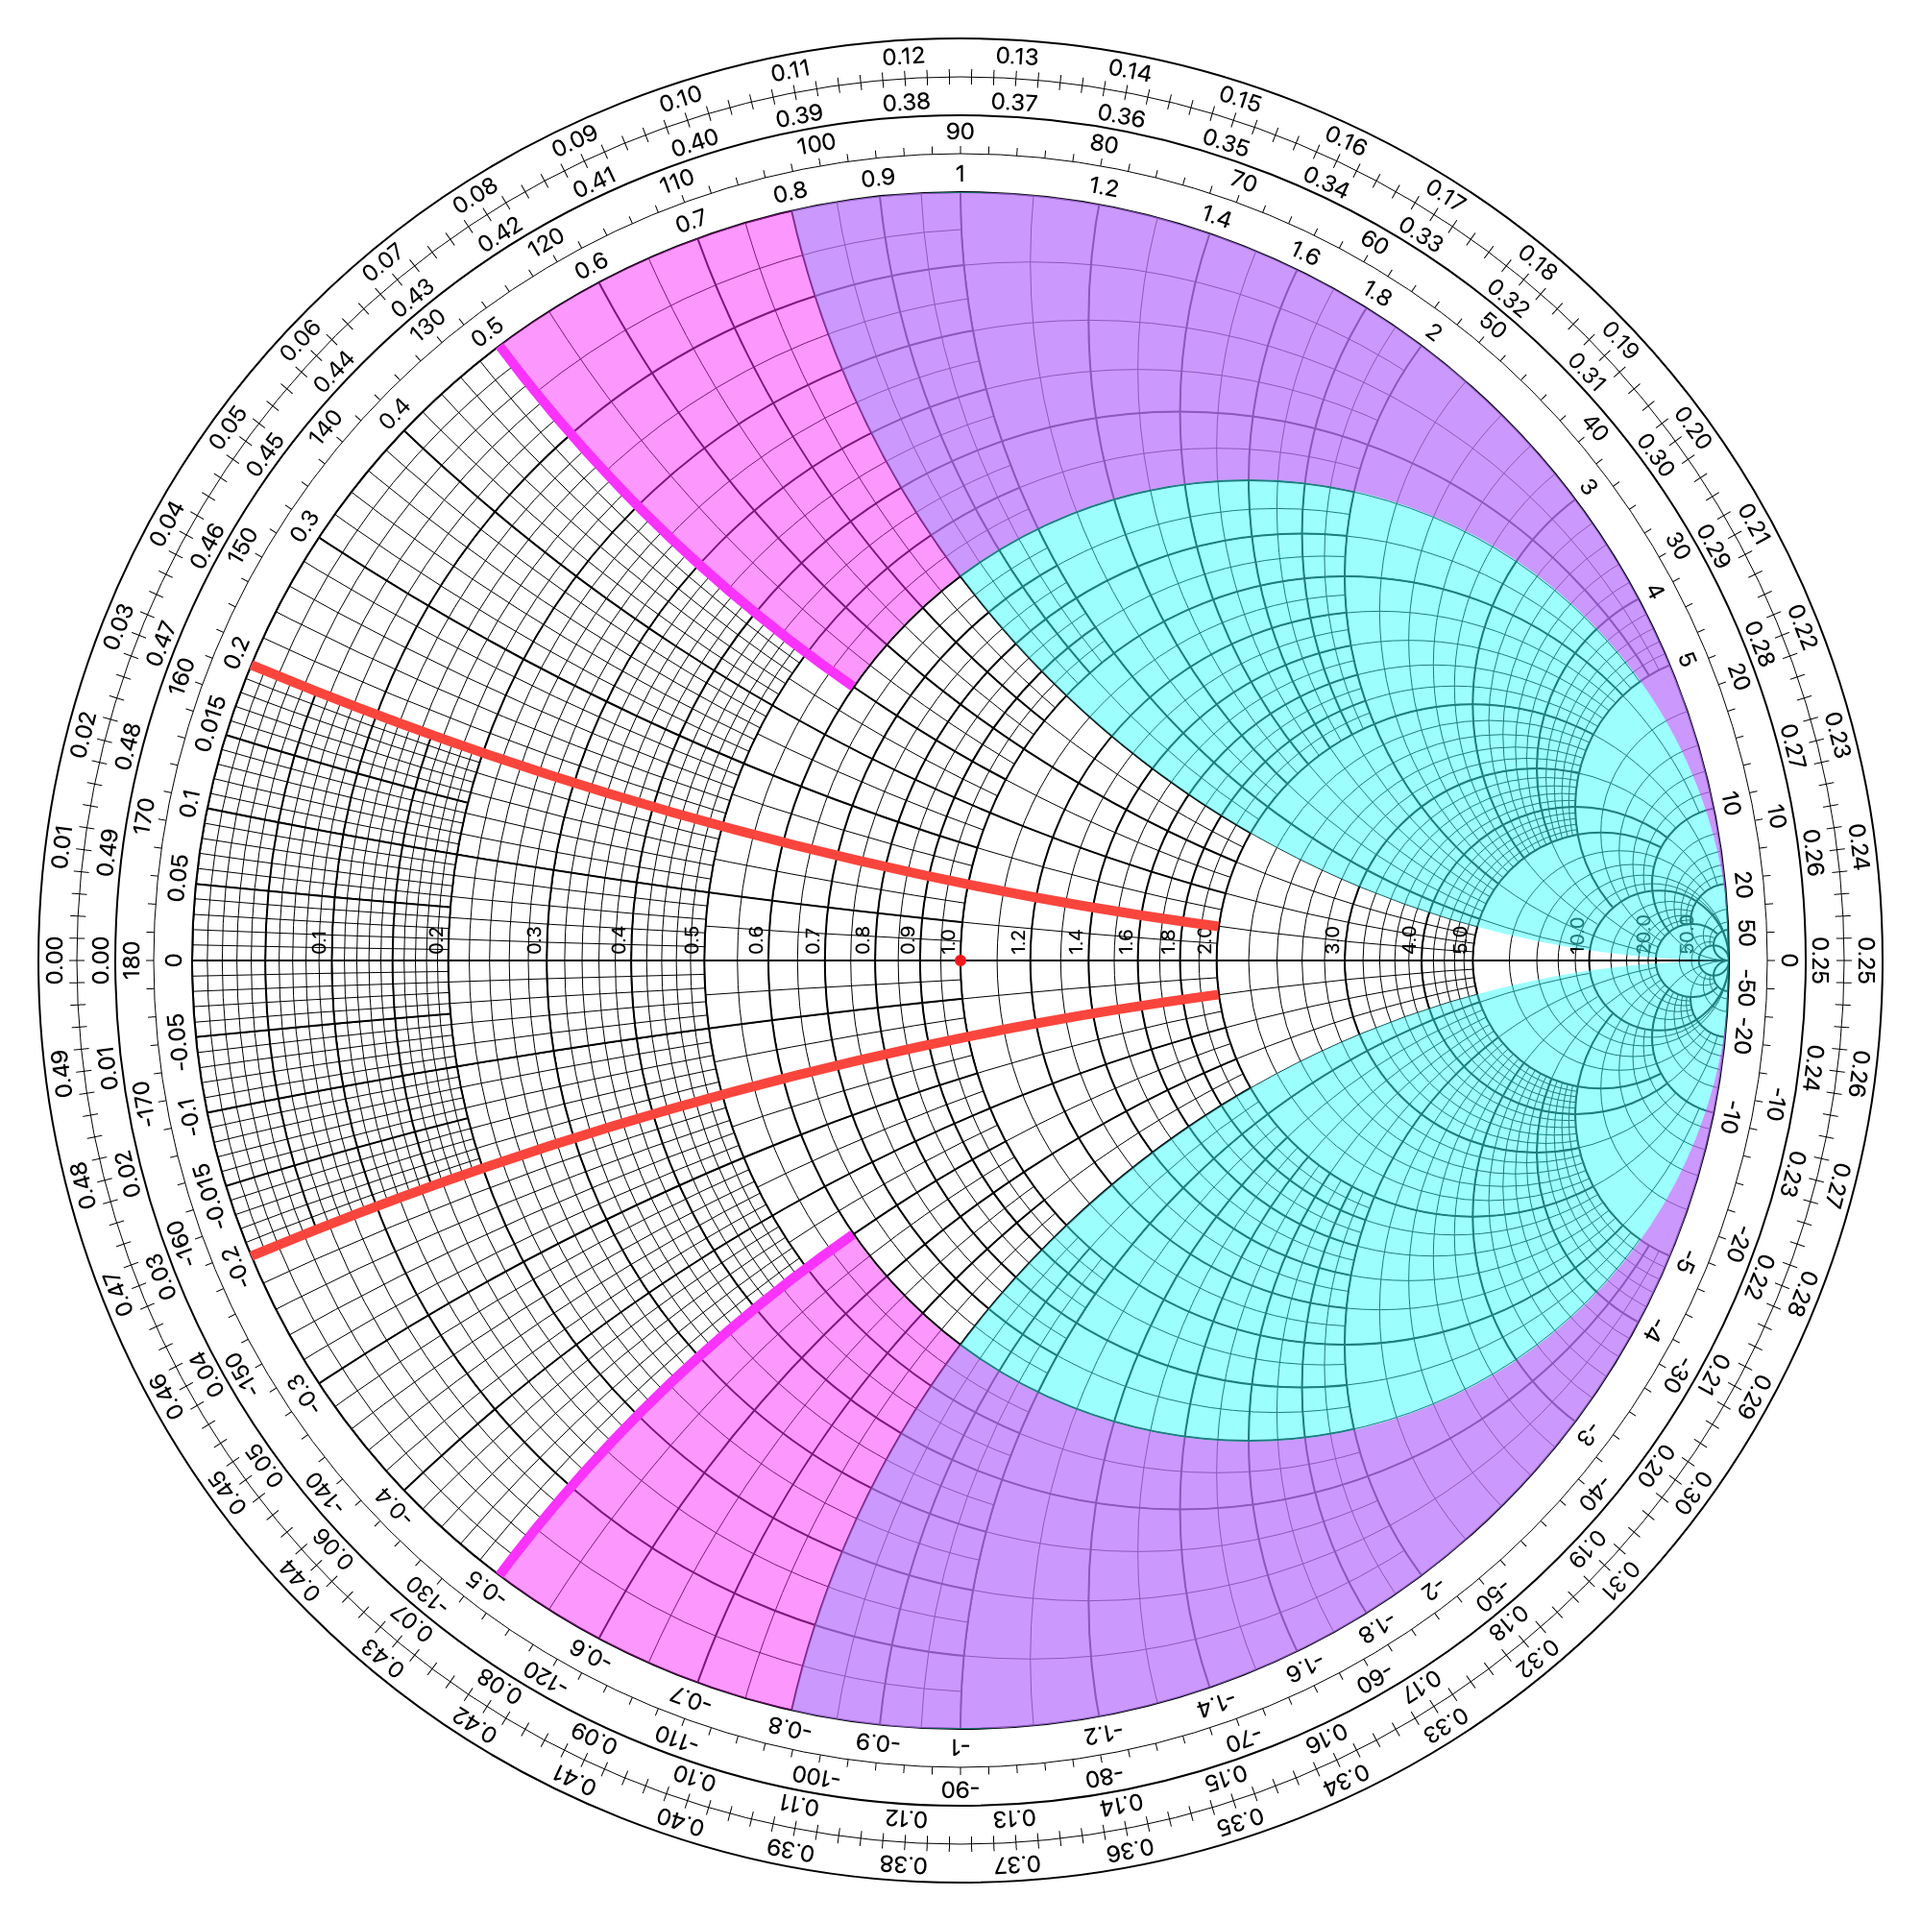
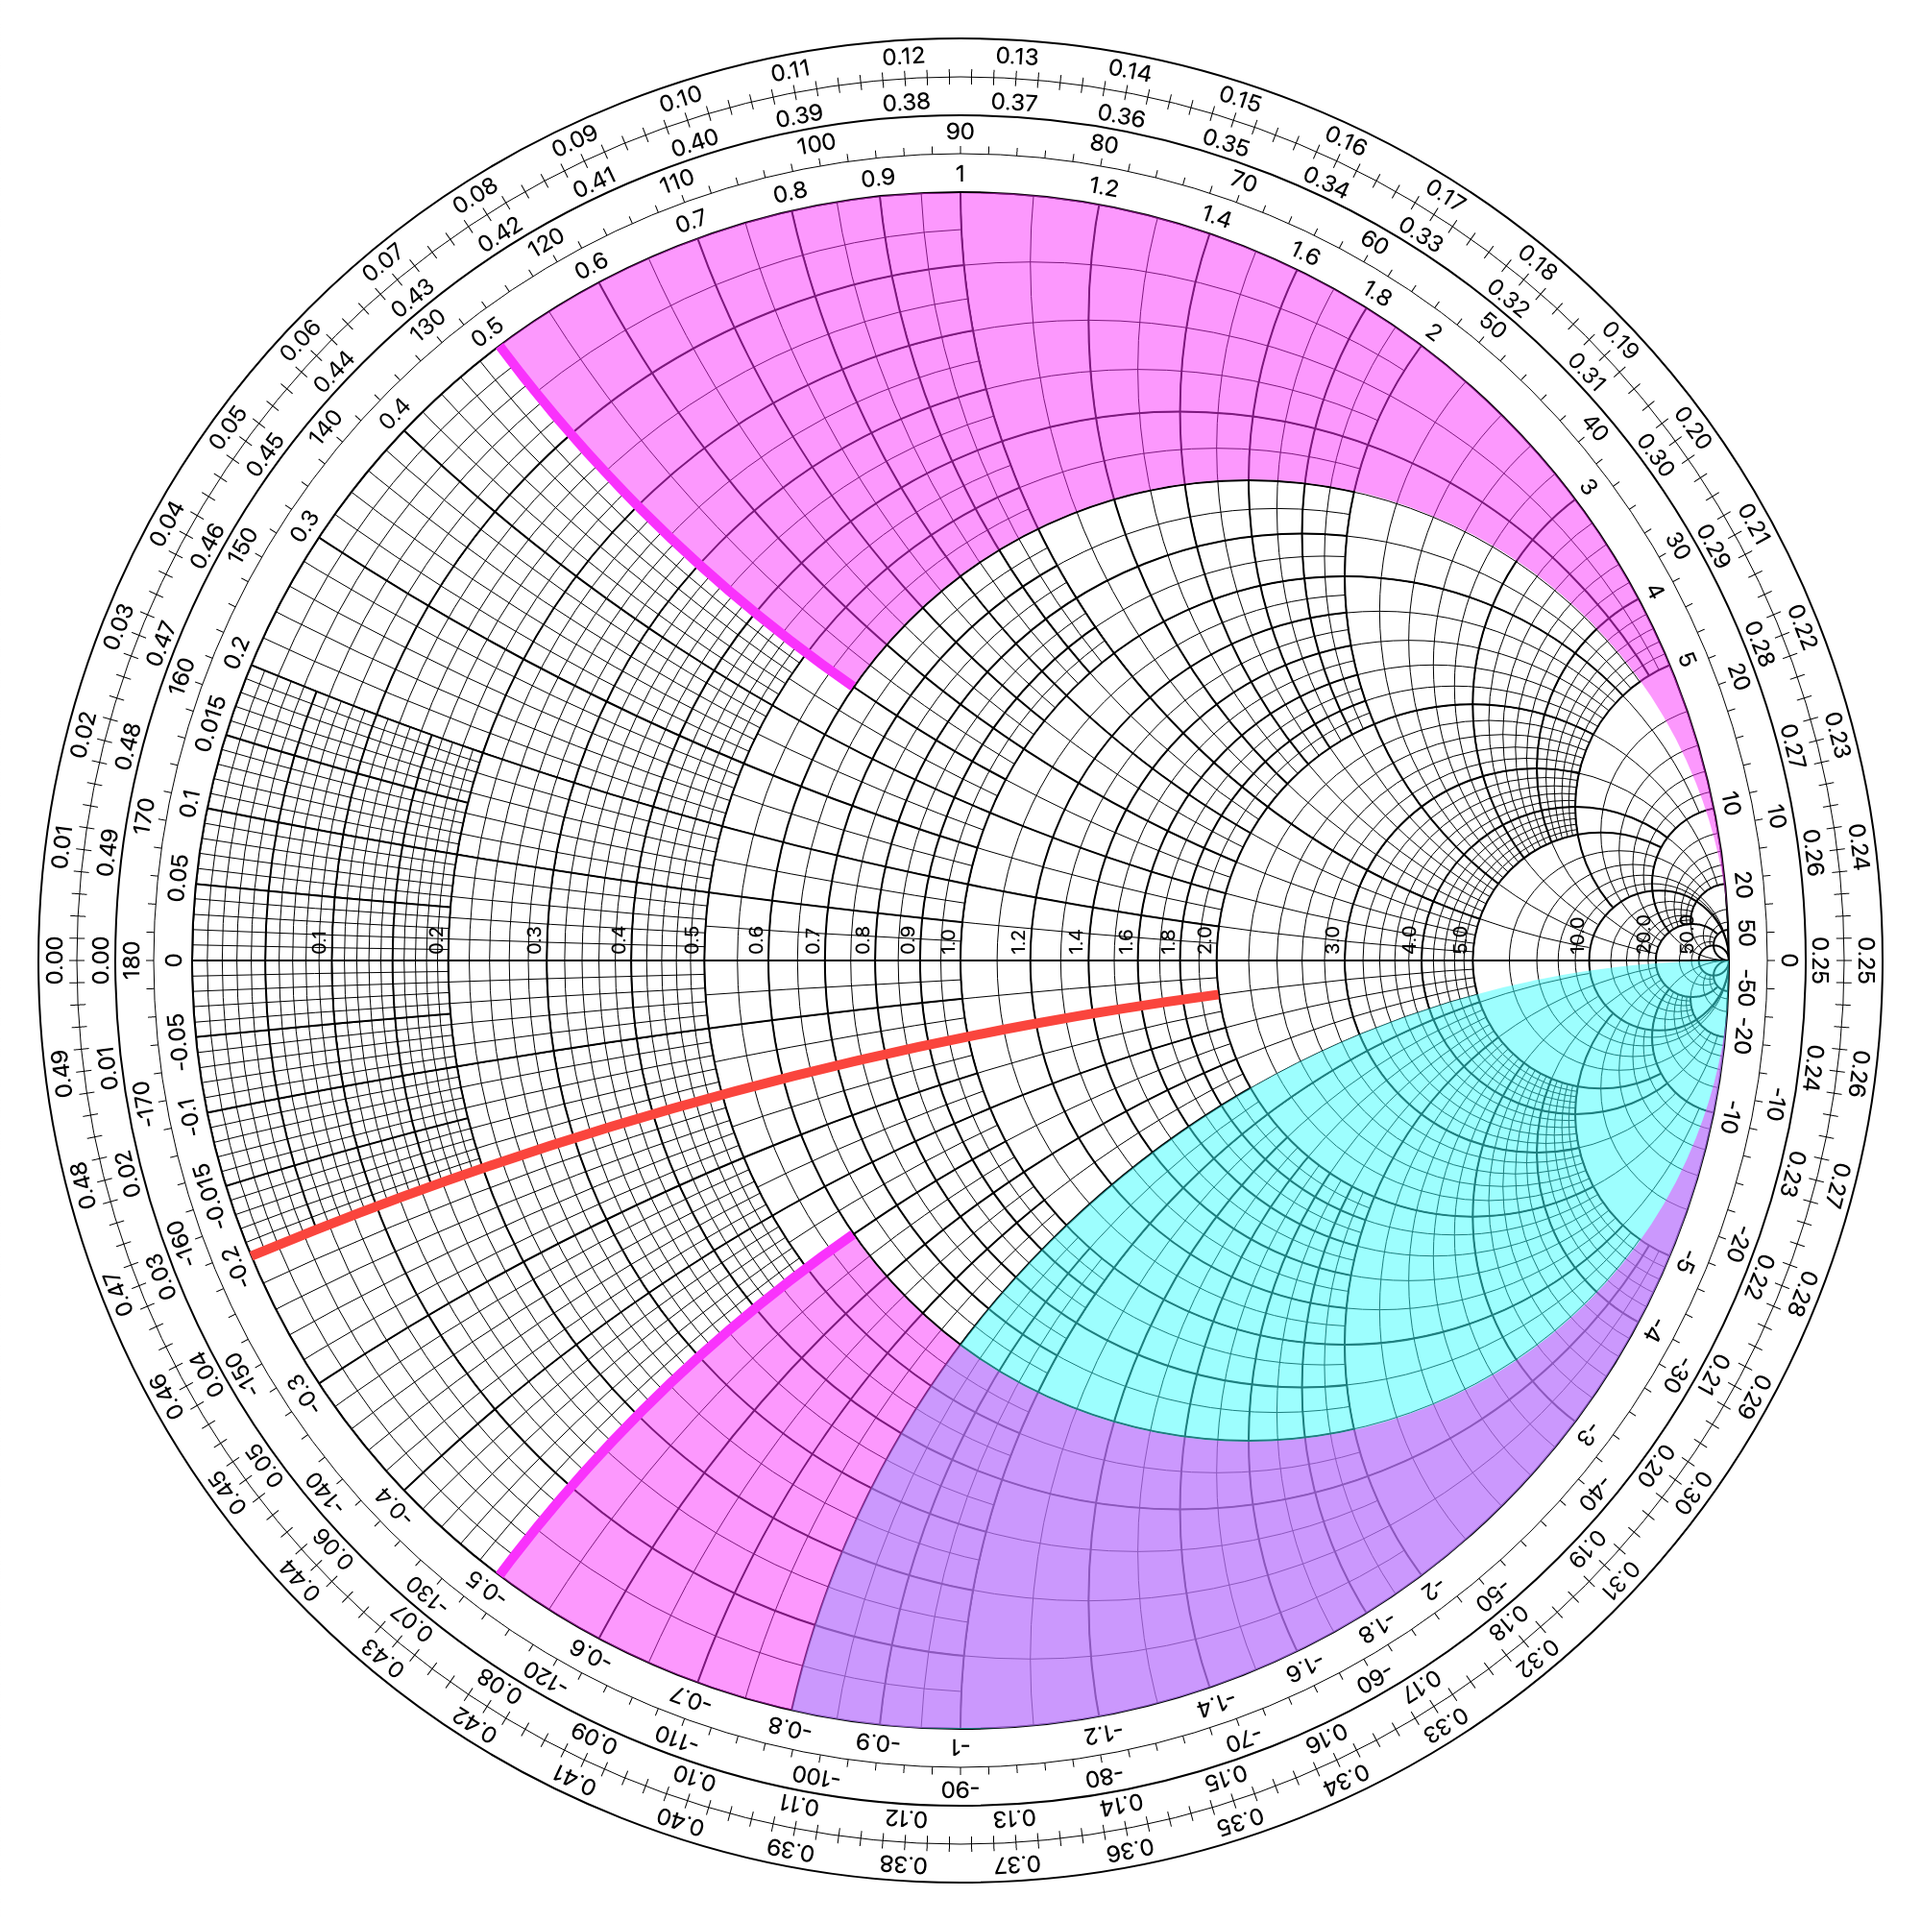
readme

diff --git a/src/App.vue b/src/App.vue
@@ -3,7 +3,7 @@
 
     <!-- <h1>Smith Chart <small class="text-muted">by <a href="http://www.germinalcamps.com" target="_blank">Germinal Camps</a></small></h1> -->
 
-    <smith-chart :radius="200">
+    <smith-chart>
 
       <!-- <sm-point :res="0" :react="0" fill="red"></sm-point>
       <sm-point :res="1" :react="0" fill="blue"></sm-point>
@@ -33,7 +33,7 @@
         stroke="#FF4136"
       ></sm-res-circle> -->
 
-      <!-- <sm-react-arc
+      <sm-react-arc
         :react="-0.2"
         :crop="2"
         fill="none"
@@ -53,7 +53,7 @@
         fill="rgba(255,0,255,0.5)"
         stroke-width="5"
         stroke="rgb(255,0,255)"
-      ></sm-react-arc> -->
+      ></sm-react-arc>
 
       <!-- <sm-vswr-circle
         :res="1"
@@ -92,6 +92,7 @@ export default {
     SmithChart,
     SmPoint,
     SmResCircle,
+    SmReactArc,
     SmVswrCircle,
   }
 }

diff --git a/README.md b/README.md
@@ -73,6 +73,8 @@ You can use smaller radius, but the chart will look small and there won't be muc
 <smith-chart :radius="200"></smith-chart>
 ```
 
+![Smith Chart with custom radius](readme/small.png?raw=true "Smith Chart with custom radius")
+
 ##### `:label-rings`
 
 TODO
@@ -185,7 +187,7 @@ Use the SVG attributes `fill`, `stroke` and `stroke-width` to style the circle.
 Use the `<sm-vswr-circle>` component to draw constant Voltage Standing Wave Ratio arcs into the chart.
 You need to specify the `res` and `react` props (resistance and reactance) of the impedance from which you want to draw its VSWR.
 
-The impedance point will be drawn as well, as a default options. Optionally set the `show-point` prop to `false` or `false` if you don't want to display this point.
+The impedance point will be drawn as well, as a default option. Set the `show-point` prop to `false` if you don't want to display this point.
 
 Use the SVG attributes `stroke` and `stroke-width` to style the circle.
 
